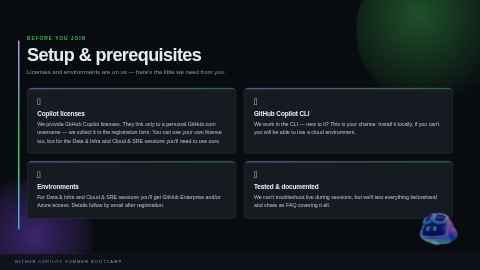
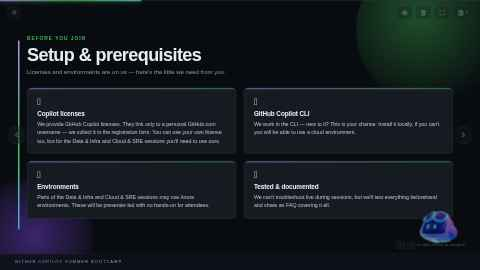
Update from DECKIO — 2026-07-28T08:54

diff --git a/src/slides/SetupSlide.jsx b/src/slides/SetupSlide.jsx
@@ -38,7 +38,7 @@ export default function SetupSlide({ index, project }) {
             <span className={styles.icon}>☁</span>
             <Editable as="h3" id="setup.items.envs.title">Environments</Editable>
             <Editable as="p" id="setup.items.envs.desc">
-              For Data &amp; Infra and Cloud &amp; SRE sessions you'll get GitHub Enterprise and/or Azure access. Details follow by email after registration.
+              Parts of the Data &amp; Infra and Cloud &amp; SRE sessions may use Azure environments. These will be presenter-led with no hands-on for attendees.
             </Editable>
           </div>
 
